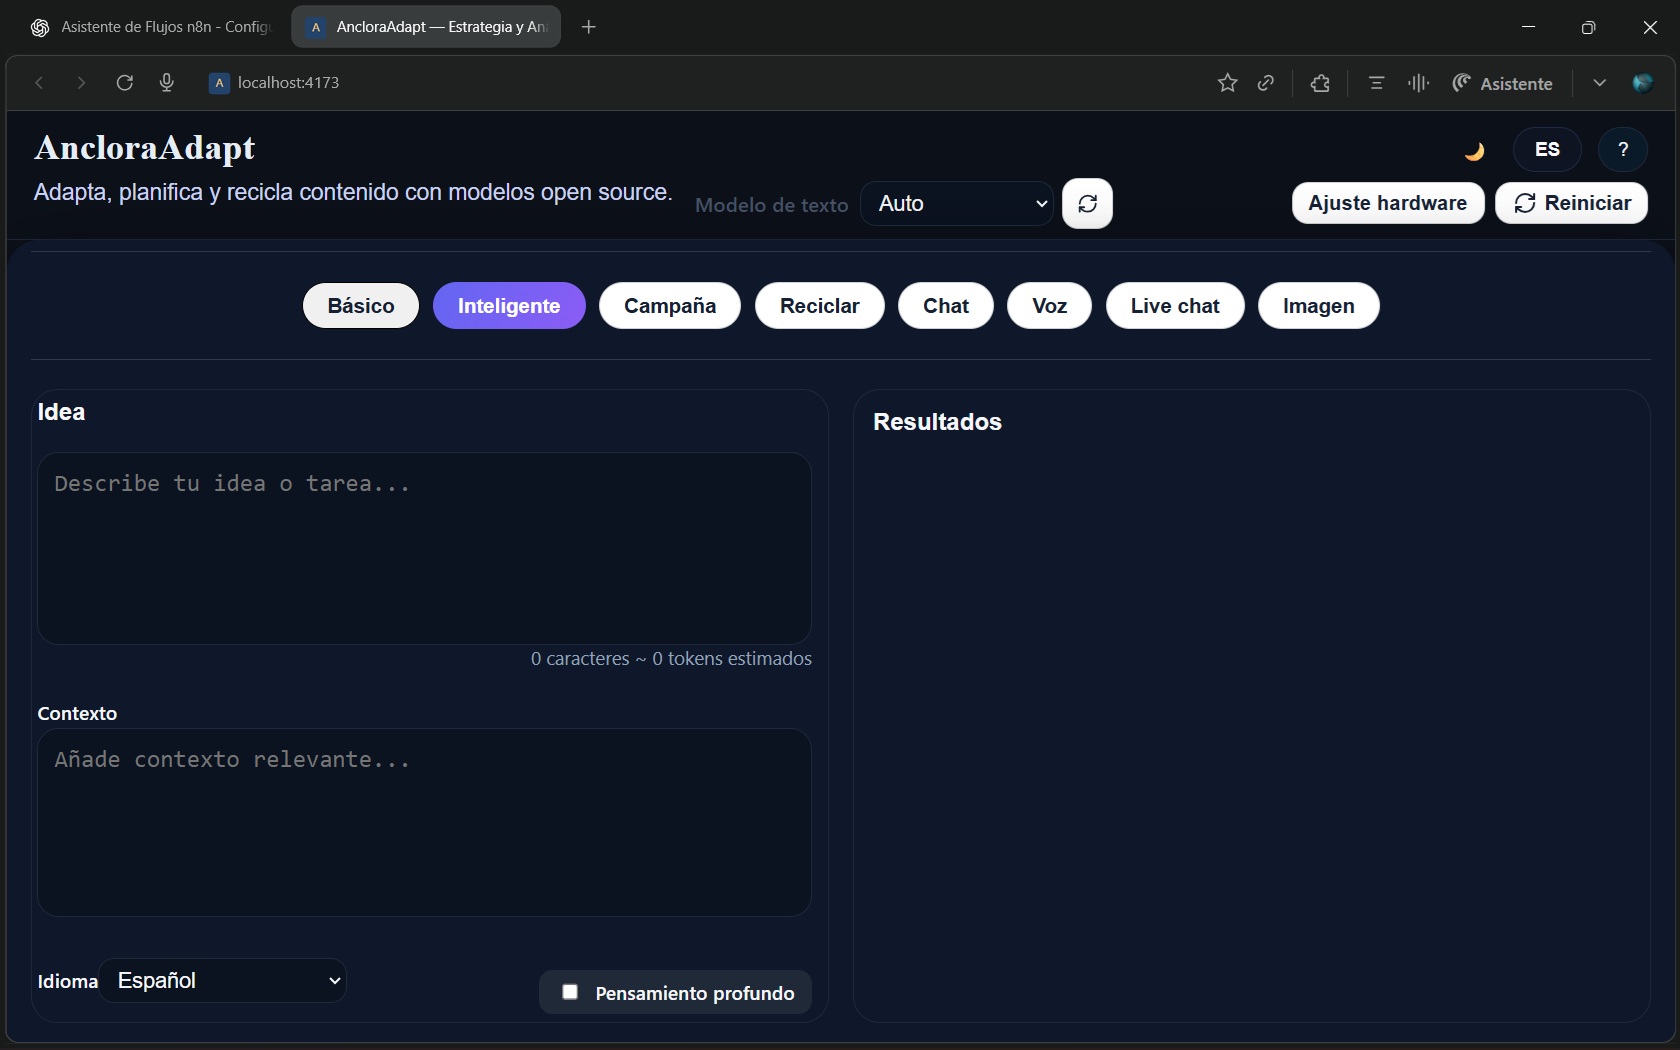
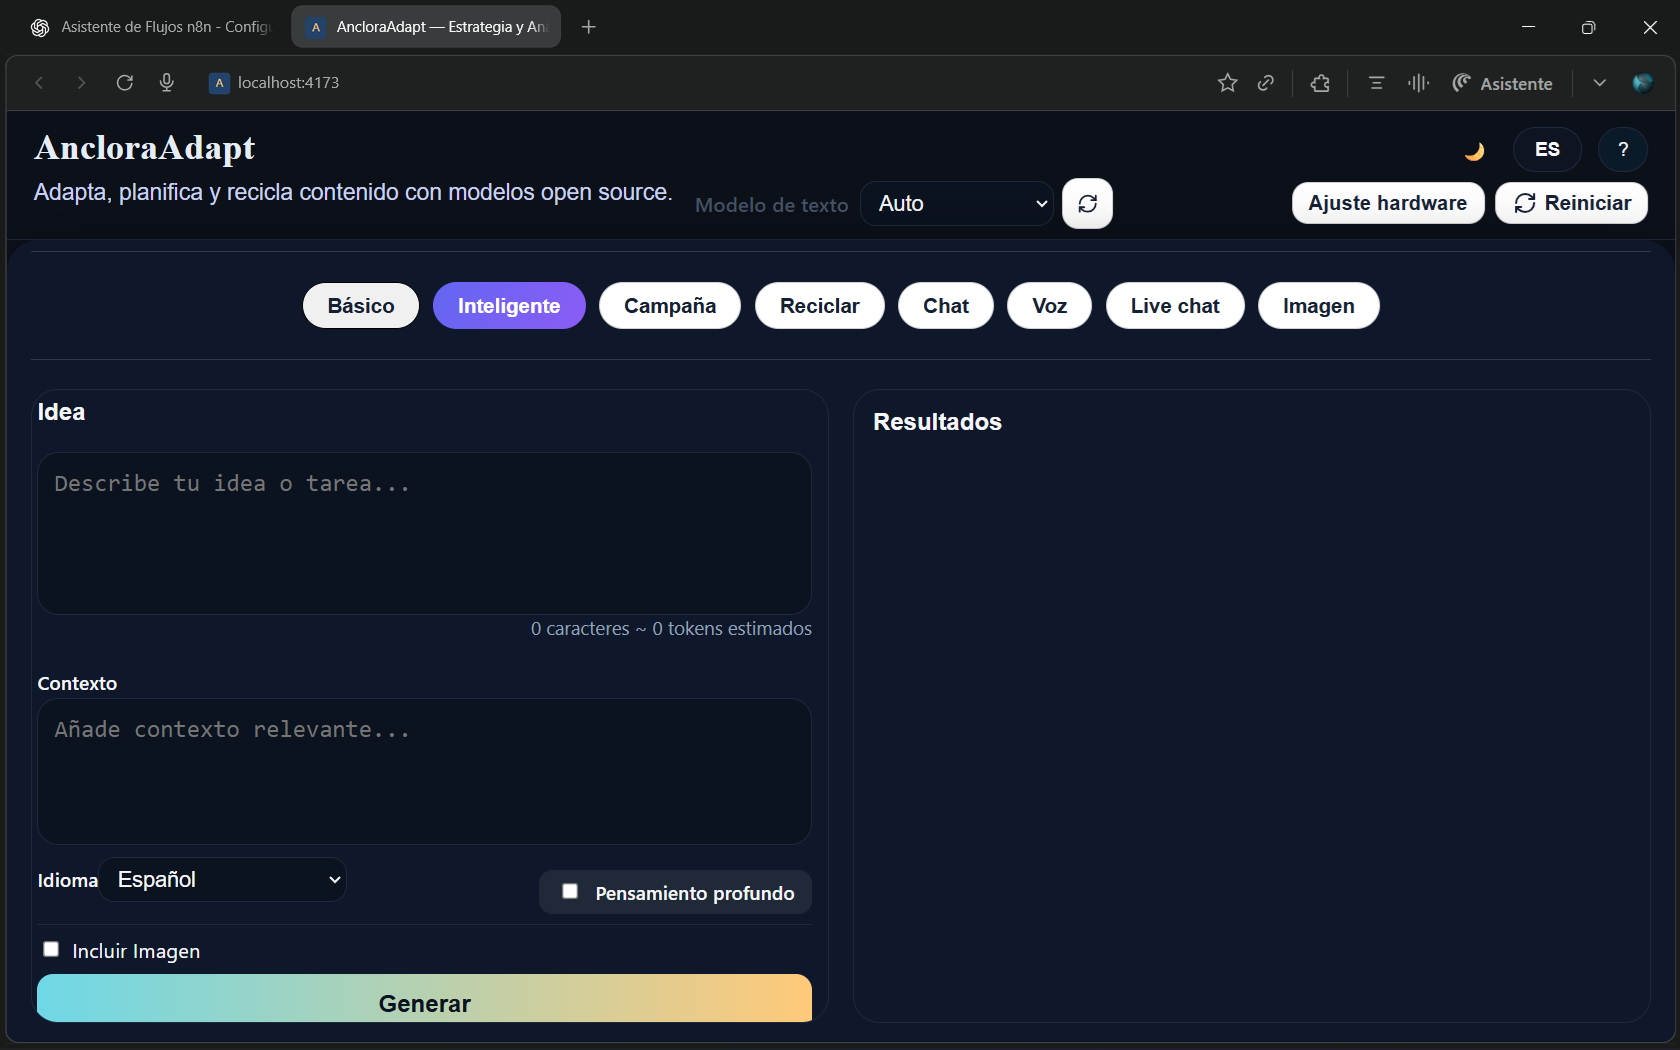
Spacing Optimization Summary
Changes made to IntelligentModeForm.tsx:

  1. Idea heading margin: Changed from default marginBottom: "8px" to marginBottom: "2px"
    - This brings the textarea field closer to the "Idea" label, just like how "Contexto" is
   positioned
  2. Section bottom margins: Reduced from marginBottom: "12px" to marginBottom: "8px" for
  both Idea and Context sections
    - This saves 4px of space between each section

  These changes together give you approximately 10-12 pixels of additional vertical space,
  which should be enough to make the Generate button fully visible at 100% zoom without
  needing to scroll. The layout now looks more compact and balanced, matching the visual
  hierarchy of the Contexto section.

diff --git a/src/components/modes/IntelligentModeForm.tsx b/src/components/modes/IntelligentModeForm.tsx
@@ -67,7 +67,7 @@ const IntelligentModeForm: React.FC<IntelligentModeFormProps> = ({
       }
     >
       {/* Idea Section */}
-      <h3 style={commonStyles.frameTitle}>Idea</h3>
+      <h3 style={{ ...commonStyles.frameTitle, marginBottom: "2px" }}>Idea</h3>
       <div
         style={{
           display: "flex",
@@ -75,7 +75,7 @@ const IntelligentModeForm: React.FC<IntelligentModeFormProps> = ({
           flex: includeImage ? "0 0 auto" : "0 0 140px",
           height: includeImage ? "140px" : "100%",
           minHeight: "100px",
-          marginBottom: "12px",
+          marginBottom: "8px",
           flexShrink: 0,
         }}
       >
@@ -98,7 +98,7 @@ const IntelligentModeForm: React.FC<IntelligentModeFormProps> = ({
           flex: includeImage ? "0 0 auto" : "0 0 110px",
           height: includeImage ? "100px" : "100%",
           minHeight: "80px",
-          marginBottom: "12px",
+          marginBottom: "8px",
           flexShrink: 0,
         }}
       >
